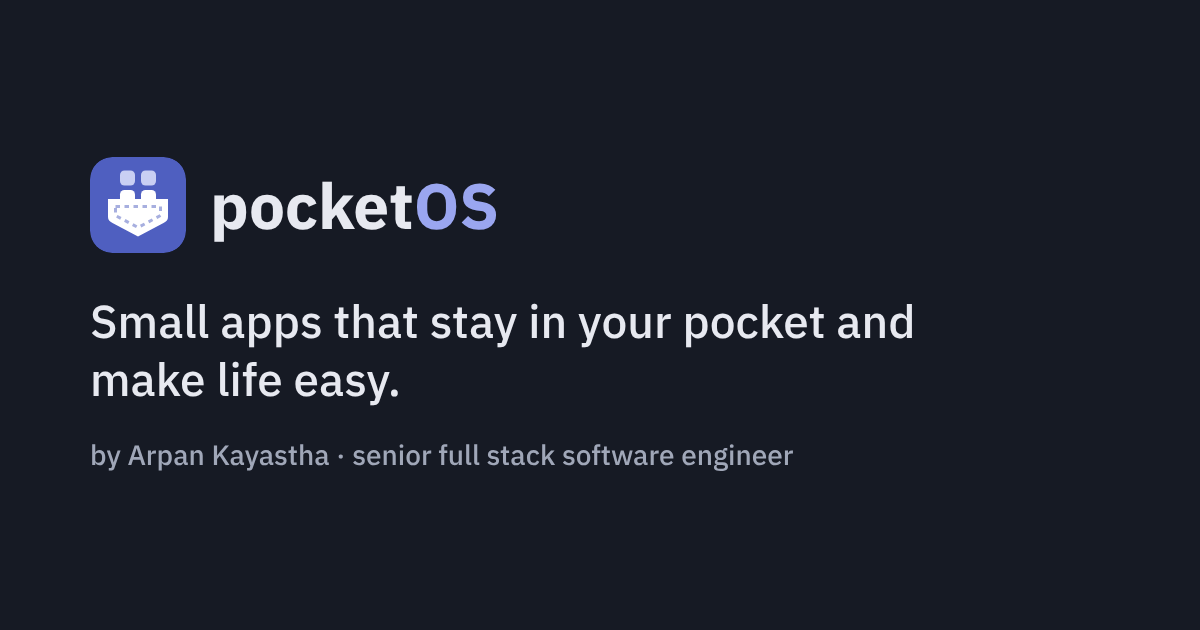
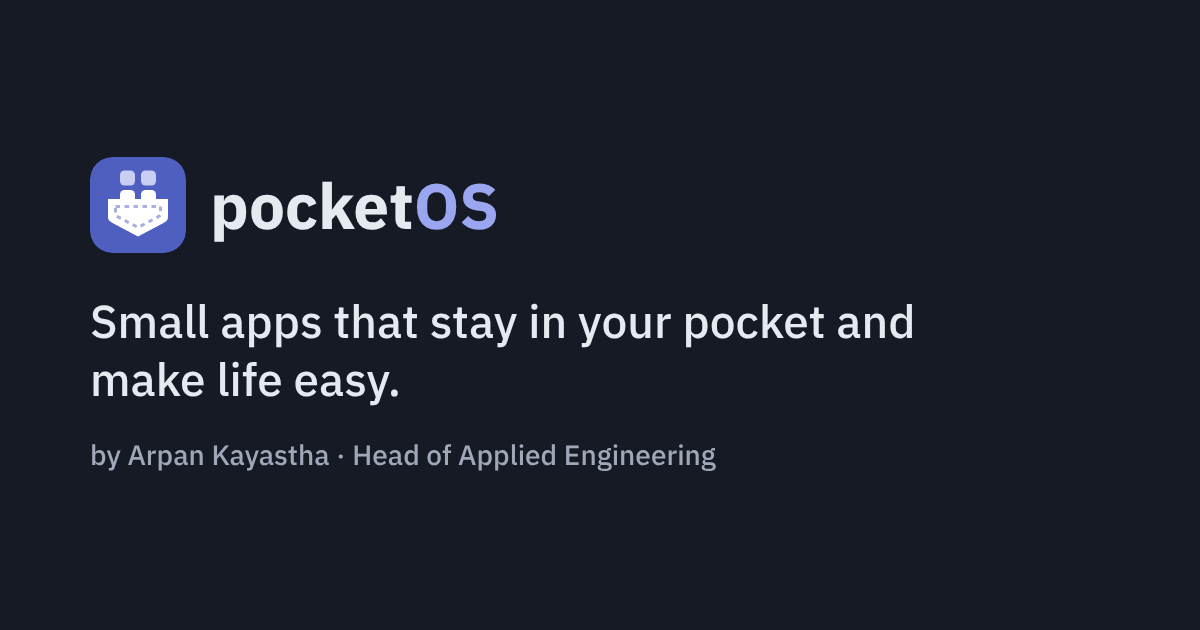
Landing page: Head of Applied Engineering, how an app gets made, detailed app cards
Claude-Session: https://claude.ai/code/session_015DtnBRMSKYzyeHRmdckSLU

Changed region(s): [[0.2775, 0.6937, 0.6475, 0.754]]

diff --git a/index.html b/index.html
@@ -4,7 +4,7 @@
   <meta charset="utf-8">
   <meta name="viewport" content="width=device-width, initial-scale=1">
   <title>pocketOS — small apps by Arpan Kayastha</title>
-  <meta name="description" content="pocketOS is Arpan Kayastha's own OS of small apps that stay in your pocket and make everyday life easier.">
+  <meta name="description" content="pocketOS is Arpan Kayastha's own OS of small apps that stay in your pocket and make everyday life easier: eChopdo, a family money and records app, and GRANDXGAMER, a gaming café app.">
   <meta name="author" content="Arpan Kayastha">
   <meta name="theme-color" content="#f6f7fb" media="(prefers-color-scheme: light)">
   <meta name="theme-color" content="#161a24" media="(prefers-color-scheme: dark)">
@@ -36,16 +36,19 @@
     <header class="hero">
       <div class="brand"><img src="/favicon.svg" alt="" width="40" height="40"><span>pocket<b>OS</b></span></div>
       <h1>Small apps that stay in your pocket and make life easy.</h1>
-      <p class="lede">pocketOS is my own OS of small apps. Each one solves a real problem for my family or friends, runs on the phone, and does one thing well.</p>
+      <p class="lede">pocketOS is my own OS of small apps. Each one starts from a real problem someone around me has, and ends as something they open every day on their phone.</p>
     </header>
 
     <section class="me" aria-labelledby="me-title">
       <img class="avatar" src="/arpan.jpg" alt="Arpan Kayastha" width="72" height="72">
       <div>
         <h2 id="me-title">Arpan Kayastha</h2>
-        <p class="role">Senior full stack software engineer · Gandhinagar, Gujarat</p>
-        <p>7+ years building production systems — fintech, esports and e-commerce platforms — currently at Alchemy Technologies. I design APIs, real-time and event-driven backends, and the React frontends on top, with Node.js, TypeScript, GraphQL, PostgreSQL and AWS.</p>
-        <p>pocketOS is the other side: small apps I build quickly with AI for my own family and friends, from the database up to a native Android companion.</p>
+        <p class="role">Head of Applied Engineering · Senior full stack engineer</p>
+        <p class="where">Gandhinagar, Gujarat · currently at Alchemy Technologies</p>
+        <p>For 7+ years I've built production systems for fintech, esports and e-commerce. The part I enjoy most comes before the code: sitting with the people who have the problem, working out what they actually need, then building it end to end — data model, APIs, the screens people touch, deployment, and the team that keeps it running.</p>
+        <ul class="chips" aria-label="What I work on">
+          <li>Full stack</li><li>DevOps &amp; cloud</li><li>Team building</li><li>Fintech</li><li>Real-time systems</li><li>AI-assisted building</li>
+        </ul>
         <nav class="links" aria-label="Find me">
           <a href="https://arpankayastha.vercel.app/">Portfolio</a>
           <a href="https://github.com/arpankayastha">GitHub</a>
@@ -53,6 +56,15 @@
           <a href="mailto:arpan31.ak@gmail.com">Email</a>
         </nav>
       </div>
+    </section>
+
+    <section aria-labelledby="how-title">
+      <h2 id="how-title" class="section-title">How a pocketOS app gets made</h2>
+      <ol class="how">
+        <li><b>Listen</b><span>Start with what someone still tracks by hand: a notebook, an Excel sheet, a pile of SMS.</span></li>
+        <li><b>Build end to end</b><span>Database, security, web app, and an Android companion when the phone can do the boring part. Built fast, with AI as a pair programmer.</span></li>
+        <li><b>Run it</b><span>Ship small changes from real feedback, keep it backed up, and stop adding once it does the job.</span></li>
+      </ol>
     </section>
 
     <section aria-labelledby="apps-title">
@@ -70,19 +82,25 @@
   <script>
     const STATUS = { live: 'Live', private: 'Private · sign-in only', building: 'Building', idea: 'Idea' };
     const esc = (s) => String(s).replace(/[&<>"]/g, (c) => ({ '&': '&amp;', '<': '&lt;', '>': '&gt;', '"': '&quot;' })[c]);
+    const list = (items, cls) => (items && items.length ? `<ul class="${cls}">${items.map((t) => `<li>${esc(t)}</li>`).join('')}</ul>` : '');
     const card = (a) => `
-      <a class="app" href="${esc(a.url)}" rel="noopener">
-        <img class="icon" src="${esc(a.icon)}" alt="" width="56" height="56" loading="lazy">
-        <div class="body">
-          <div class="top"><h3>${esc(a.name)}</h3><span class="status ${esc(a.status)}">${esc(STATUS[a.status] || a.status)}</span></div>
-          <p>${esc(a.about)}</p>
-          <div class="meta">${(a.tags || []).map((t) => `<span>${esc(t)}</span>`).join('')}<span class="url">${esc(a.url.replace(/^https?:\/\//, ''))} →</span></div>
+      <article class="app">
+        <div class="head">
+          ${a.icon ? `<img class="icon" src="${esc(a.icon)}" alt="" width="56" height="56" loading="lazy">` : ''}
+          <div class="title">
+            <div class="top"><h3>${esc(a.name)}</h3><span class="status ${esc(a.status)}">${esc(STATUS[a.status] || a.status)}</span></div>
+            <p class="about">${esc(a.about)}</p>
+          </div>
         </div>
-      </a>`;
+        ${a.problem ? `<p class="problem"><b>The problem</b>${esc(a.problem)}</p>` : ''}
+        ${list(a.features, 'features')}
+        ${list([...(a.platforms || []), ...(a.stack || [])], 'tags')}
+        <a class="open" href="${esc(a.url)}" rel="noopener">${a.status === 'private' ? 'Sign in' : 'Open'} · ${esc(a.url.replace(/^https?:\/\//, ''))} →</a>
+      </article>`;
     document.getElementById('apps').innerHTML = window.APPS.map(card).join('') + `
       <div class="app more">
-        <div class="icon plus" aria-hidden="true">+</div>
-        <div class="body"><h3>More coming</h3><p>The next small app is whatever my family still tracks by hand.</p></div>
+        <div class="head"><div class="icon plus" aria-hidden="true">+</div>
+        <div class="title"><h3>More coming</h3><p class="about">The next small app is whatever my family and friends still track by hand.</p></div></div>
       </div>`;
     document.getElementById('year').textContent = new Date().getFullYear();
   </script>

diff --git a/styles.css b/styles.css
@@ -62,35 +62,51 @@ h1, h2, h3 { line-height: 1.2; margin: 0; }
 }
 .links a:hover { background: var(--accent-soft); }
 
+.where { color: var(--muted); font-size: 14px; margin: -8px 0 12px !important; }
+.chips, .tags { list-style: none; padding: 0; margin: 0 0 14px; display: flex; flex-wrap: wrap; gap: 6px; }
+.chips li { font-size: 13px; font-weight: 500; padding: 3px 10px; border-radius: 999px; background: var(--accent-soft); color: var(--accent); }
+
 .section-title { font-size: 14px; text-transform: uppercase; letter-spacing: .08em; color: var(--muted); margin-bottom: 14px; }
-.apps { display: grid; grid-template-columns: repeat(auto-fill, minmax(min(100%, 380px), 1fr)); gap: 14px; }
+.how { list-style: none; padding: 0; margin: 0 0 44px; display: grid; grid-template-columns: repeat(auto-fit, minmax(min(100%, 240px), 1fr)); gap: 14px; counter-reset: step; }
+.how li { counter-increment: step; padding: 18px; border: 1px solid var(--line); border-radius: 16px; background: var(--card); }
+.how li::before { content: counter(step); display: inline-grid; place-items: center; width: 26px; height: 26px; border-radius: 50%; background: var(--accent-soft); color: var(--accent); font: 600 13px 'IBM Plex Mono', monospace; margin-bottom: 8px; }
+.how b { display: block; margin-bottom: 4px; }
+.how span { color: var(--muted); font-size: 15px; }
+
+.apps { display: grid; grid-template-columns: repeat(auto-fill, minmax(min(100%, 400px), 1fr)); gap: 14px; }
 .app {
-  display: flex; gap: 16px; padding: 20px;
+  display: flex; flex-direction: column; padding: 22px; min-width: 0;
   background: var(--card); border: 1px solid var(--line); border-radius: 18px; box-shadow: var(--shadow);
-  color: inherit; text-decoration: none; min-width: 0;
-  transition: border-color .15s, transform .15s;
 }
-a.app:hover { border-color: var(--accent); transform: translateY(-1px); }
+.head { display: flex; gap: 16px; margin-bottom: 14px; }
 .icon { flex: none; width: 56px; height: 56px; border-radius: 14px; object-fit: cover; }
-.body { min-width: 0; flex: 1; }
-.top { display: flex; flex-wrap: wrap; align-items: center; gap: 6px 10px; margin-bottom: 6px; }
-.app h3 { font-size: 19px; }
-.app p { margin: 0 0 12px; color: var(--muted); font-size: 15px; }
+.title { min-width: 0; flex: 1; }
+.top { display: flex; flex-wrap: wrap; align-items: center; gap: 6px 10px; margin-bottom: 4px; }
+.app h3 { font-size: 20px; }
+.about { margin: 0; color: var(--muted); font-size: 15px; }
 .status { font-size: 12px; font-weight: 600; padding: 2px 9px; border-radius: 999px; background: var(--accent-soft); color: var(--accent); }
 .status.live { background: var(--live-bg); color: var(--live); }
-.meta { display: flex; flex-wrap: wrap; gap: 6px; align-items: center; font-size: 12px; }
-.meta span { padding: 2px 8px; border-radius: 6px; border: 1px solid var(--line); color: var(--muted); }
-.meta .url { border: 0; padding: 0; margin-left: auto; color: var(--accent); font-family: 'IBM Plex Mono', monospace; overflow-wrap: anywhere; }
-.more { border-style: dashed; box-shadow: none; background: transparent; }
+.problem { margin: 0 0 12px; font-size: 15px; padding: 10px 12px; border-left: 3px solid var(--accent); background: var(--bg); border-radius: 0 10px 10px 0; }
+.problem b { display: block; font-size: 12px; text-transform: uppercase; letter-spacing: .06em; color: var(--accent); }
+.features { margin: 0 0 14px; padding-left: 20px; font-size: 15px; }
+.features li { margin-bottom: 6px; }
+.features li::marker { color: var(--accent); }
+.tags li { font-size: 12px; padding: 2px 8px; border-radius: 6px; border: 1px solid var(--line); color: var(--muted); }
+.open {
+  margin-top: auto; align-self: flex-start; text-decoration: none; font-weight: 600; font-size: 14px;
+  padding: 8px 14px; border-radius: 10px; background: var(--accent-soft); overflow-wrap: anywhere;
+}
+.open:hover { background: var(--accent); color: var(--card); }
+.more { border-style: dashed; box-shadow: none; background: transparent; justify-content: center; }
+.more .head { margin: 0; align-items: center; }
 .plus { display: grid; place-items: center; font-size: 28px; color: var(--muted); border: 1px dashed var(--line); }
-.more p { margin: 0; }
 
 .foot { margin-top: 48px; color: var(--muted); font-size: 14px; }
 
 @media (max-width: 520px) {
   .wrap { padding-top: 28px; }
   .me { flex-direction: column; padding: 18px; }
-  .app { padding: 16px; gap: 14px; }
+  .app { padding: 18px; }
+  .head { gap: 14px; }
   .icon { width: 48px; height: 48px; }
-  .meta .url { margin-left: 0; width: 100%; }
 }

diff --git a/apps.js b/apps.js
@@ -1,6 +1,38 @@
-// The apps shown on the page. Adding an app = one more line here.
+// The apps shown on the page. Adding an app = one more object here (only name, url, status and about are required).
 // status: 'live' | 'private' | 'building' | 'idea'
 window.APPS = [
-  { name: 'eChopdo', icon: 'icons/echopdo.svg', url: 'https://echopdo.vercel.app', status: 'private', tags: ['Web app', 'Android'], about: 'A private family app for money, records and passwords — daily spends, monthly plan, dues, loans and an encrypted vault. Sign-in only.' },
-  { name: 'GRANDXGAMER', icon: 'icons/grandxgamer.png', url: 'https://grandxgamer.vercel.app', status: 'live', tags: ['Web app', 'Android'], about: 'The gaming café app: a public home page, slot booking and event pages for customers; a staff side for slots, cash, shifts and pay; and a shop-phone app that matches bank SMS payments.' },
+  {
+    name: 'eChopdo',
+    icon: 'icons/echopdo.svg',
+    url: 'https://echopdo.vercel.app',
+    status: 'private',
+    about: 'A family money, records and passwords app. Named after the chopdo, the family account book blessed every Diwali.',
+    problem: 'Household money lived in notebooks, bank SMS and memory. Nobody could say what was left to spend this month or which bills were still due.',
+    features: [
+      'Daily cash book and a monthly plan: what came in, what went out, what is left to spend',
+      'Android companion app reads bank SMS on the phone and adds the entry automatically; a home-screen widget adds one by hand in two taps',
+      'Dues between people, loans with EMI schedules and prepayment what-ifs, credit-card bill cycles',
+      'Zero-knowledge password vault: encrypted on the device, unlocked by fingerprint',
+      'Separate logins per household, weekly encrypted backup to Google Drive',
+    ],
+    stack: ['React', 'Supabase · Postgres RLS', 'Edge Functions', 'Kotlin Android', 'WebAuthn', 'Web Crypto'],
+    platforms: ['Web app (PWA)', 'Android'],
+  },
+  {
+    name: 'GRANDXGAMER',
+    icon: 'icons/grandxgamer.png',
+    url: 'https://grandxgamer.vercel.app',
+    status: 'live',
+    about: 'Runs a gaming café end to end: the counter, the cash, the staff and the customers.',
+    problem: 'The café ran on Excel and a notebook: PC and PS5 time, cash and staff hours were hard to keep straight.',
+    features: [
+      'Customers: a public home page, event pages and online slot booking',
+      'Counter: live PC and PS5 sessions with timers, food and drinks, extend and end the bill',
+      'Cash drawer and a daily check that every bill adds up',
+      'Staff: PIN logins, clock-in shifts, hourly pay and salary paid',
+      'Shop-phone app that matches bank SMS payments to bills',
+    ],
+    stack: ['React', 'Supabase · Postgres RLS', 'Kotlin Android'],
+    platforms: ['Web app (PWA)', 'Android'],
+  },
 ];

diff --git a/CLAUDE.md b/CLAUDE.md
@@ -14,7 +14,7 @@ pocketOS is Arpan's own OS of small apps that stay in your pocket and make life 
 
 ## The page
 - Plain static files, no build step: `index.html`, `styles.css`, `apps.js`, `favicon.svg`, `og.png` (1200×630 share image), `icons/`.
-- **Adding an app = one line in `apps.js`** (`name`, `icon`, `url`, `status`: live / private / building / idea, `tags`, `about`), plus its icon in `icons/`.
+- **Adding an app = one line in `apps.js`** (`name`, `url`, `status`: live / private / building / idea, `about`; optional `icon`, `problem`, `features`, `platforms`, `stack`), plus its icon in `icons/`.
 - Light and dark follow the system (`prefers-color-scheme`, tokens on `:root`). Check at 384 px wide (no sideways scroll) and at laptop width.
 - Meta tags (title, description, Open Graph, Twitter card, canonical) use absolute `https://arpan-pocketos.vercel.app/` URLs — update them if the domain changes.
 
